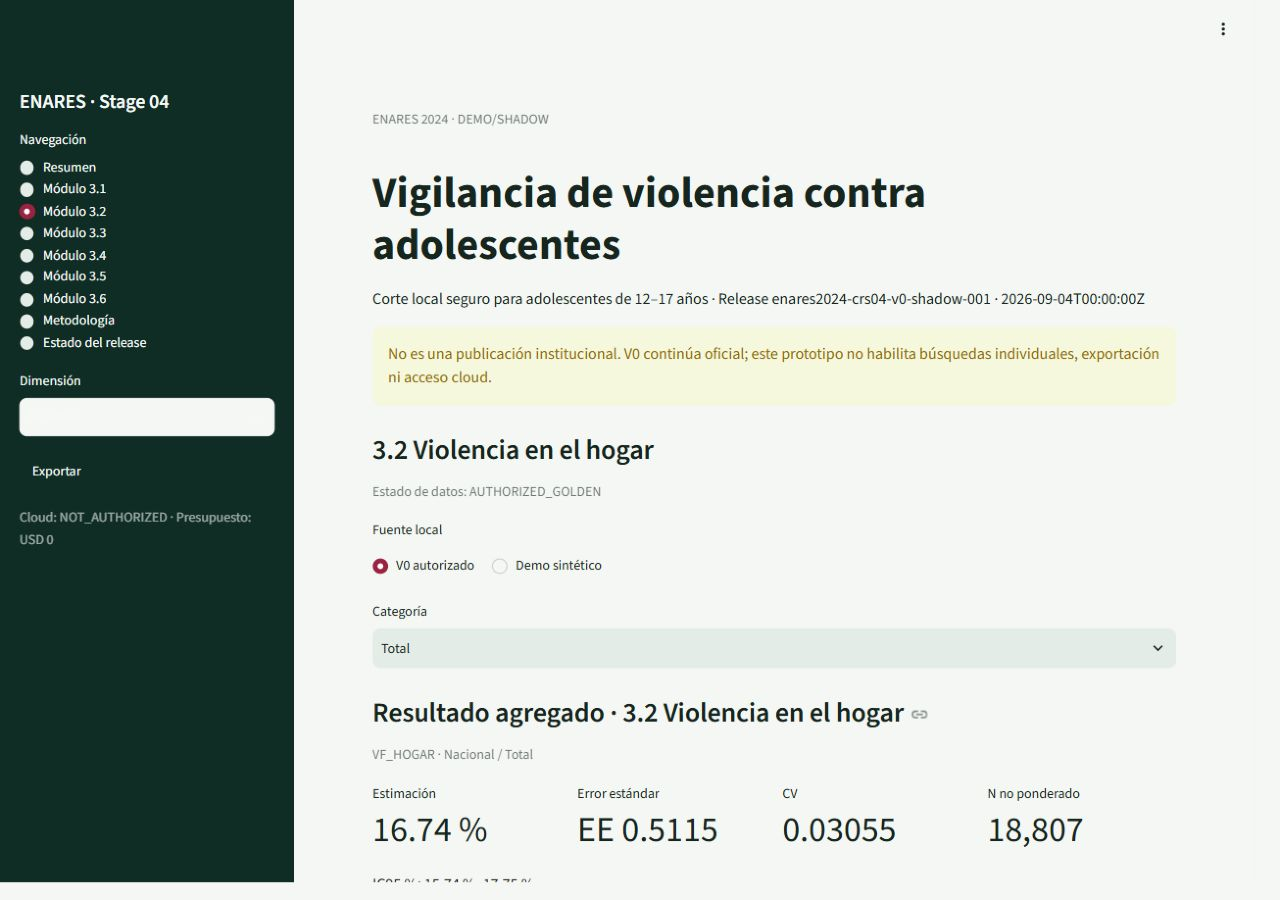
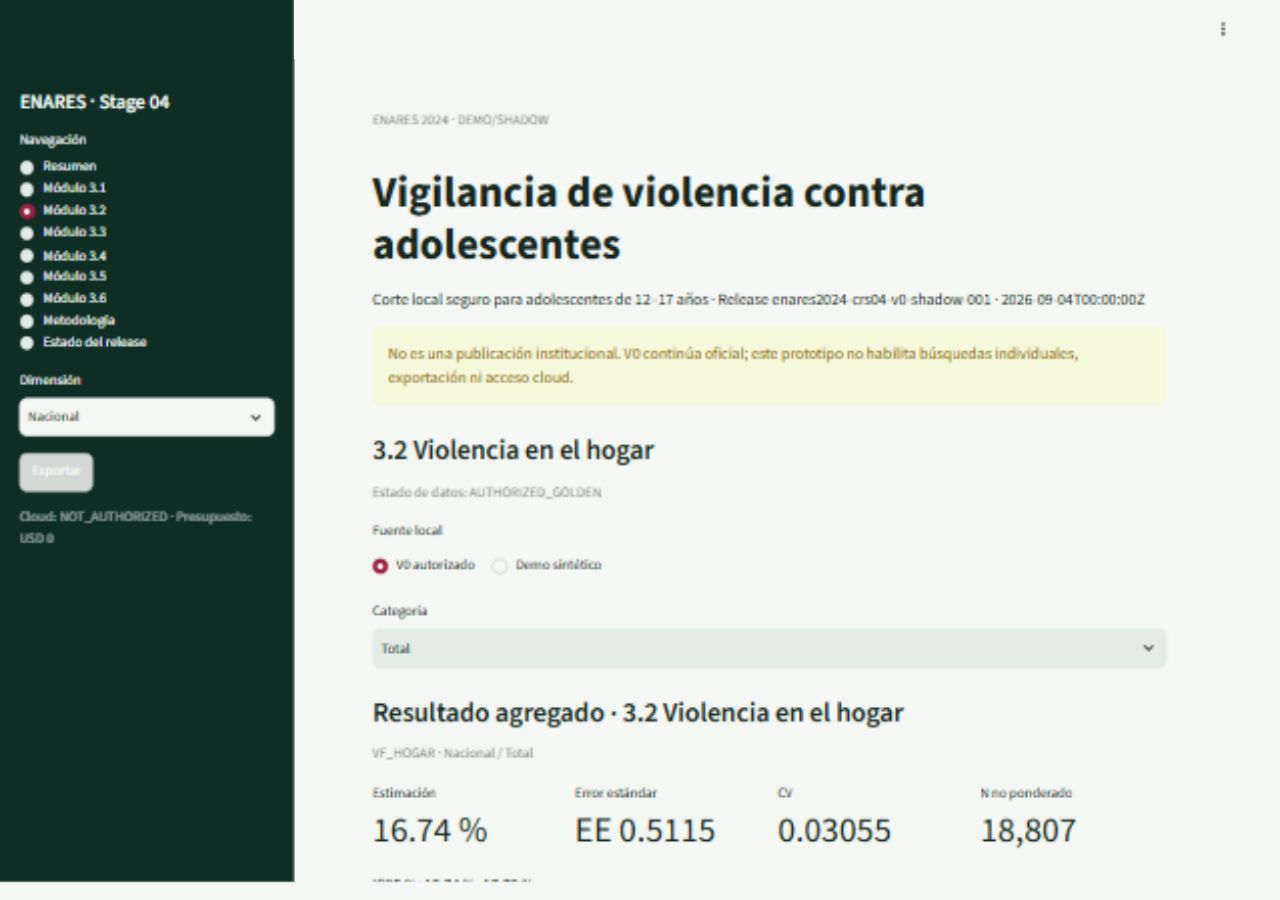
fix(stage04): enforce authorized fail-closed module gate

diff --git a/tests/test_stage04_module_coverage.py b/tests/test_stage04_module_coverage.py
@@ -10,8 +10,13 @@ from streamlit.testing.v1 import AppTest
 
 from app.config import FUTURE_DIMENSIONS, MODULES, NAVIGATION, get_module
 from app.streamlit_app import local_repositories
-from app.views.stage04_dashboard import EXPORT_ENABLED, filter_estimates
-from enares.stage04.repository import BigQueryRepository
+from app.views.stage04_dashboard import EXPORT_ENABLED, build_numeric_card, filter_estimates
+from enares.stage04.repository import (
+    AuthorizedAggregateRepository,
+    BigQueryRepository,
+    IndicatorRepository,
+)
+import enares.stage04.modules as module_registry
 from enares.stage04.modules import (
     AUTHORIZED_GOLDEN,
     LOCAL_COVERAGE_RUN_ID,
@@ -49,6 +54,14 @@ def _visible_text(app: AppTest) -> str:
                 (str(getattr(element, "value", "")), str(getattr(element, "label", "")))
             )
     return "\n".join(values)
+
+
+class _StaticRepository(IndicatorRepository):
+    def __init__(self, rows):
+        self.rows = list(rows)
+
+    def list_estimates(self, module_id: str):
+        return [row for row in self.rows if row.module_id == module_id]
 
 
 def test_registry_contains_every_module_once_in_required_order():
@@ -106,6 +119,58 @@ def test_registry_makes_data_authorization_explicit_and_fail_closed():
         assert module.authorized_dimensions == ()
 
 
+def test_valid_non_synthetic_31_national_row_is_rejected_without_authorization():
+    authorized, _ = local_repositories()
+    golden = authorized.list_estimates("3.2")[0]
+    pending = replace(
+        golden,
+        module_id="3.1",
+        indicator_id="justifica_castigo_parental",
+        indicator_name="Justificación del castigo parental",
+    )
+    with pytest.raises(ValueError, match="not authorized"):
+        validate_estimates([pending])
+    with pytest.raises(ValueError, match="not authorized"):
+        filter_estimates(_StaticRepository([pending]), "3.1", "Nacional", "Total")
+
+
+def test_valid_non_synthetic_32_sex_row_is_rejected_when_only_national_is_authorized():
+    authorized, _ = local_repositories()
+    pending = replace(
+        authorized.list_estimates("3.2")[0],
+        disaggregation="Sexo",
+        category="Mujer",
+    )
+    with pytest.raises(ValueError, match="not authorized"):
+        validate_estimates([pending])
+
+
+def test_expanding_available_dimensions_does_not_expand_authorization(monkeypatch):
+    authorized, _ = local_repositories()
+    golden = authorized.list_estimates("3.2")[0]
+    current = get_module("3.1")
+    monkeypatch.setitem(
+        module_registry.MODULE_BY_ID,
+        "3.1",
+        replace(current, available_dimensions=(*current.available_dimensions, "Técnica")),
+    )
+    pending = replace(
+        golden,
+        module_id="3.1",
+        indicator_id="justifica_castigo_parental",
+        disaggregation="Técnica",
+    )
+    with pytest.raises(ValueError, match="not authorized"):
+        validate_estimates([pending])
+
+
+def test_32_national_golden_still_builds_numeric_card():
+    authorized, _ = local_repositories()
+    card = build_numeric_card(filter_estimates(authorized, "3.2", "Nacional", "Total")[0])
+    assert card["indicator_id"] == "VF_HOGAR"
+    assert card["n_text"] == "N no ponderado: 18,807"
+
+
 def test_modules_with_national_only_source_do_not_advertise_other_dimensions():
     assert get_module("3.3").available_dimensions == ("Nacional",)
     assert get_module("3.4").available_dimensions == ("Nacional",)
@@ -158,6 +223,53 @@ def test_apptest_absent_combination_is_no_data_without_numbers():
     assert not app.exception
     assert "sin datos autorizados para 3.1" in visible
     assert "No se fabrican resultados" in visible
+    assert not app.metric
+
+
+def test_apptest_pending_module_stops_before_repository_and_category_selector(monkeypatch):
+    calls = []
+    original = AuthorizedAggregateRepository.list_estimates
+
+    def record_calls(self, module_id):
+        calls.append(module_id)
+        return original(self, module_id)
+
+    monkeypatch.setattr(AuthorizedAggregateRepository, "list_estimates", record_calls)
+    app = _run_application()
+    app.sidebar.radio[0].set_value(get_module("3.1").page_label).run(timeout=15)
+    visible = _visible_text(app)
+    assert not app.exception
+    assert "El gate de calidad y supresión está pendiente" in visible
+    assert "sin datos autorizados" in visible
+    assert set(calls) == {"3.2"}
+    assert not app.metric
+    assert not app.table
+    assert len(app.selectbox) == 1
+
+
+def test_apptest_demo_synthetic_keeps_three_textual_states():
+    app = _run_application()
+    app.sidebar.radio[0].set_value(get_module("3.2").page_label).run(timeout=15)
+    app.radio[0].set_value("Demo sintético").run(timeout=15)
+    visible = _visible_text(app)
+    assert not app.exception
+    assert all(state in visible for state in ("Candidato", "Referencia", "Suprimido"))
+    assert visible.count("DEMO SINTÉTICO") == 3
+
+
+def test_invalid_row_error_is_generic_and_does_not_expose_internal_content(monkeypatch):
+    internal_marker = "<INTERNAL_STORAGE_MARKER>"
+    authorized, _ = local_repositories()
+    invalid = replace(authorized.list_estimates("3.2")[0], release_id=internal_marker)
+
+    def invalid_rows(self, module_id):
+        return [invalid] if module_id == "3.2" else []
+
+    monkeypatch.setattr(AuthorizedAggregateRepository, "list_estimates", invalid_rows)
+    app = _run_application()
+    visible = _visible_text(app)
+    assert "Los resultados no superaron la validación estadística" in visible
+    assert internal_marker not in visible
     assert not app.metric
 
 

diff --git a/app/streamlit_app.py b/app/streamlit_app.py
@@ -43,8 +43,33 @@ def _styles() -> None:
         """
         <style>
         [data-testid="stSidebar"] { background: #102d25; }
-        [data-testid="stSidebar"] * { color: #f6fbf8 !important; }
-        [data-testid="stSidebar"] [data-baseweb="select"] * { color: #17251f !important; }
+        [data-testid="stSidebar"] h2,
+        [data-testid="stSidebar"] label,
+        [data-testid="stSidebar"] [data-testid="stCaptionContainer"],
+        [data-testid="stSidebar"] [data-testid="stMarkdownContainer"] p {
+            color: #f6fbf8;
+        }
+        [data-testid="stSidebar"] [data-baseweb="select"] > div {
+            background: #ffffff;
+            color: #17251f;
+        }
+        [data-testid="stSidebar"] [data-baseweb="select"] input,
+        [data-testid="stSidebar"] [data-baseweb="select"] [role="combobox"],
+        [data-testid="stSidebar"] [data-baseweb="select"] svg,
+        [data-baseweb="popover"] [role="option"] {
+            color: #17251f !important;
+            fill: #17251f;
+        }
+        [data-testid="stSidebar"] button:disabled {
+            background: #d4d9d6;
+            color: #46524d !important;
+            border-color: #a7b0ac;
+            opacity: 1;
+        }
+        [data-testid="stSidebar"] :focus-visible {
+            outline: 3px solid #f3c44e !important;
+            outline-offset: 2px;
+        }
         </style>
         """,
         unsafe_allow_html=True,
@@ -176,6 +201,13 @@ def render() -> None:
         if source == "Demo sintético":
             _validated_state_gallery(demo)
         else:
+            if dimension not in module.authorized_dimensions:
+                st.info(
+                    f"{dimension}: sin datos autorizados para {module.module_id}. "
+                    "El gate de calidad y supresión está pendiente. "
+                    "No se fabrican resultados."
+                )
+                return
             try:
                 dimension_rows = [
                     row

diff --git a/src/enares/stage04/validation.py b/src/enares/stage04/validation.py
@@ -48,6 +48,8 @@ def validate_estimates(rows: Iterable[IndicatorEstimate]) -> None:
         if not row.synthetic and row.indicator_id not in module.indicator_ids:
             raise ValueError("indicator_id is not registered for its module")
         if not row.synthetic and row.disaggregation not in module.available_dimensions:
+            raise ValueError("disaggregation is not available for its module")
+        if not row.synthetic and row.disaggregation not in module.authorized_dimensions:
             raise ValueError("disaggregation is not authorized for its module")
         if not row.category:
             raise ValueError("category is required")

diff --git a/docs/stage04/sprint042_corte2_module_coverage.md b/docs/stage04/sprint042_corte2_module_coverage.md
@@ -18,6 +18,11 @@ Exportación deshabilitada; publicación, cutover y sustitución de V0 no autori
   current_release ni crea una ejecución cloud.
 - Matriz detallada módulo × indicador × nueve dimensiones creada con estado de datos y
   evidencia fail-closed por combinación.
+- Barrera de autorización reforzada en dos capas: la validación central rechaza toda fila V0
+  cuya dimensión no esté en `authorized_dimensions`, y la interfaz detiene el flujo antes de
+  consultar el repositorio cuando la combinación no está autorizada.
+- La disponibilidad observada en V0 no concede autorización. Solo 3.2 / `VF_HOGAR` /
+  `Nacional` continúa autorizado; el fixture sintético conserva sus estados didácticos.
 
 ## Conciliación del catálogo y gate restante
 
@@ -51,18 +56,21 @@ Para ampliar cifras se necesita resolver:
 
 ## Verificación y pendientes
 
-La suite anterior obtuvo 200 passed, pero no comprobaba la autorización de esos estados.
-Se actualizaron los tests para exigir ausencia de cifras en los módulos pendientes.
-Resultado local actual: 213 passed, 0 failed, incluyendo diez pruebas de la conversión de N.
+La suite anterior obtuvo 213 passed, pero no comprobaba en todas las capas la autorización de
+esos estados. Se añadieron pruebas negativas de validación y repositorio, prueba positiva del
+golden y AppTest para asegurar que la UI se detiene antes de consultar filas no autorizadas.
+Resultado local actual: 220 passed, 0 failed, incluidos los gates de autorización y diez
+pruebas de la conversión de N.
 Ejecutado con Python 3.12 y pytest, deshabilitando
 la caché y usando una carpeta temporal nueva por permisos del entorno Windows.
 Incluye AppTest de navegación y ausencia de cifras pendientes; no acredita su autorización.
 git diff --check: sin errores de whitespace en los cambios de trabajo.
 
-Se completaron capturas de resumen, módulos 3.1–3.6, estados y ancho reducido. La revisión HCI
-local confirmó navegación por teclado, foco visible, etiquetas y ausencia de solapamiento. Se
-corrigió el contraste configurando un tema claro coherente. La revisión independiente de HCI,
-el clon limpio y la CI del nuevo corte se registran como gates antes de aprobar.
+Se renovaron capturas de resumen, módulos 3.1–3.6, estados, selector cerrado/abierto y ancho
+reducido. La revisión HCI local a 1280 × 900 y 390 × 844 confirmó navegación por teclado, foco
+visible, etiquetas, selector legible, botón Exportar deshabilitado y ausencia de solapamiento.
+El clon limpio reprodujo 220 passed y Dataform compiló 44 acciones. La revisión independiente
+de HCI y la CI del nuevo head continúan como gates antes de aprobar.
 
 No se declara cerrado Sprint 04.2. La revisión del PR no autoriza cifras nuevas, cloud,
 exportación, publicación ni cutover.

diff --git a/docs/stage04/known_discrepancies.md b/docs/stage04/known_discrepancies.md
@@ -41,3 +41,4 @@ owner metodológico siguen pendientes de aprobación formal y no son política i
 | KD-C2-04 | Tipo special del diccionario frente a prevalence/distribution en seis salidas 3.5 | Contrato especial | Bloquea adaptación genérica | Exigir adaptador explícito; no tratar como prevalencia binaria ordinaria | PENDIENTE | OPEN |
 | KD-C2-05 | Cuatro filas de contexto de Solap_VP_VF_E / Solap_VP_VF_H sin SE, IC ni CV | Estadísticas incompletas | No pueden mostrarse como estimaciones completas | Conservar vacíos y excluir de tarjetas hasta decisión de calidad | PENDIENTE | OPEN |
 | KD-C2-06 | C3P242_10, C3P242_5, C4P258_7 y ayuda_vs_car con estimación/target 0 y CV vacío | CV no definido para cero eventos | Requiere estado visual explícito | Conservar CV vacío; no sustituir por cero ni aprobar publicación por defecto | PENDIENTE | OPEN |
+| KD-C2-07 | Disponibilidad observada frente a autorización explícita por dimensión | La presencia en V0 no acredita calidad/supresión | Una fila disponible podía alcanzar el repositorio sin un gate explícito de autorización | Validación central y UI exigen `authorized_dimensions`; solo 3.2/Nacional permanece habilitado | Revisión formal pendiente | RESOLVED_ENGINEERING_REVIEW_PENDING |

diff --git a/docs/stage04/corte2_local_run_manifest.md b/docs/stage04/corte2_local_run_manifest.md
@@ -27,5 +27,10 @@ Solo el golden previamente aprobado de 3.2 conserva `AUTHORIZED_GOLDEN`. Las com
 nuevas permanecen `PENDING_QUALITY_SUPPRESSION` y no producen tarjetas numéricas hasta que
 exista aprobación independiente de su estado de calidad/supresión.
 
+Para filas no sintéticas se aplican tres gates: indicador registrado en el módulo, dimensión
+presente en `available_dimensions` y dimensión incluida en `authorized_dimensions`. La
+validación central rechaza cualquier incumplimiento y la UI repite el gate antes de consultar el
+repositorio. La disponibilidad de una fila en V0 no se interpreta como autorización.
+
 Este identificador pertenece a evidencia técnica local. No crea ni modifica
 `ops.current_release`, un release institucional o una ejecución cloud.

diff --git a/docs/stage04/module_indicator_dimension_matrix.md b/docs/stage04/module_indicator_dimension_matrix.md
@@ -71,6 +71,9 @@ Run de evidencia: `sprint042-corte2-local-coverage-001`. Fuente: baseline V0 apr
 
 ## Lectura de la matriz
 
+- `Presencia en V0` describe disponibilidad observada; no concede autorización de uso.
+- Una fila no sintética debe superar tres comprobaciones independientes: indicador registrado
+  en el módulo, dimensión disponible y dimensión incluida en `authorized_dimensions`.
 - `AUTHORIZED_GOLDEN` solo aplica a VF_HOGAR / Nacional en el CSV autorizado ya aprobado.
 - `PENDING_QUALITY_SUPPRESSION` identifica una combinación existente en V0 cuyo estado de calidad/supresión no está aprobado para la nueva ejecución local.
 - `SOURCE_COMBINATION_ABSENT` impide ofrecer la dimensión y no genera categorías ni estimaciones.

diff --git a/docs/stage04/module_coverage_matrix.md b/docs/stage04/module_coverage_matrix.md
@@ -8,6 +8,9 @@ Detalle verificable por indicador y dimensión:
 
 Las nueve dimensiones están configuradas. La existencia de filas en Drive no equivale a
 conciliación de calidad, supresión y significado del indicador para su presentación.
+Tampoco equivale a autorización: una dimensión puede figurar en `available_dimensions`, pero
+solo `authorized_dimensions` habilita el agregado no sintético después de validar indicador,
+disponibilidad y autorización. La UI repite el gate antes de consultar el repositorio.
 
 | Módulo | Centinela examinado en Drive | Dimensiones observadas para ese centinela | Datos habilitados en UI | Evidencia automatizada |
 |---|---|---|---|---|
